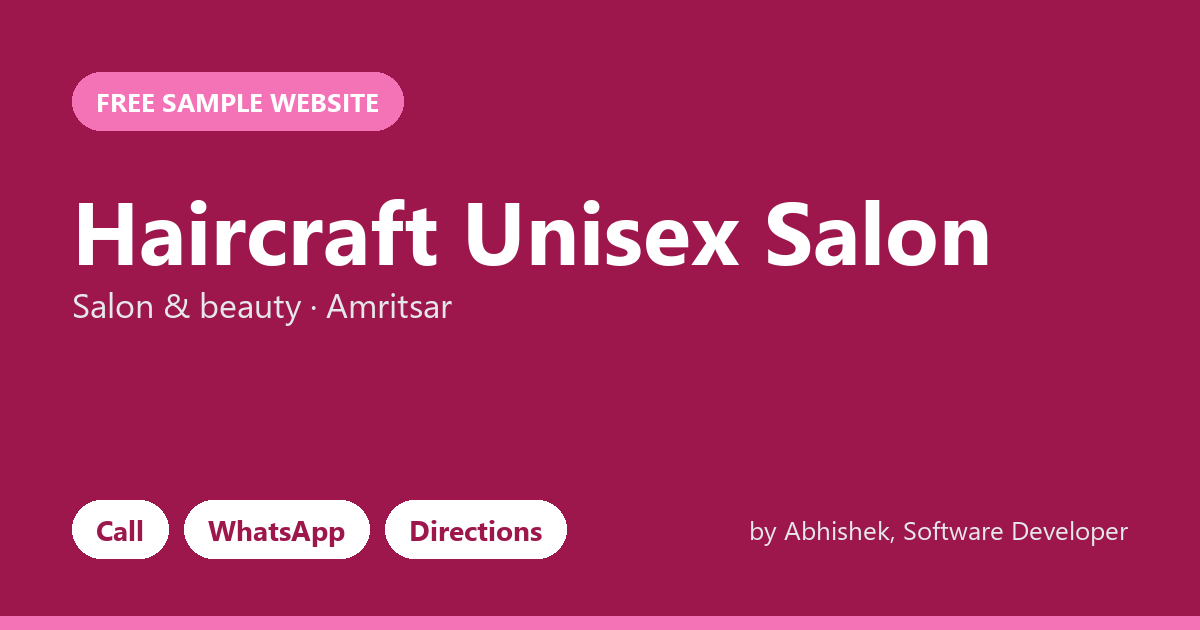
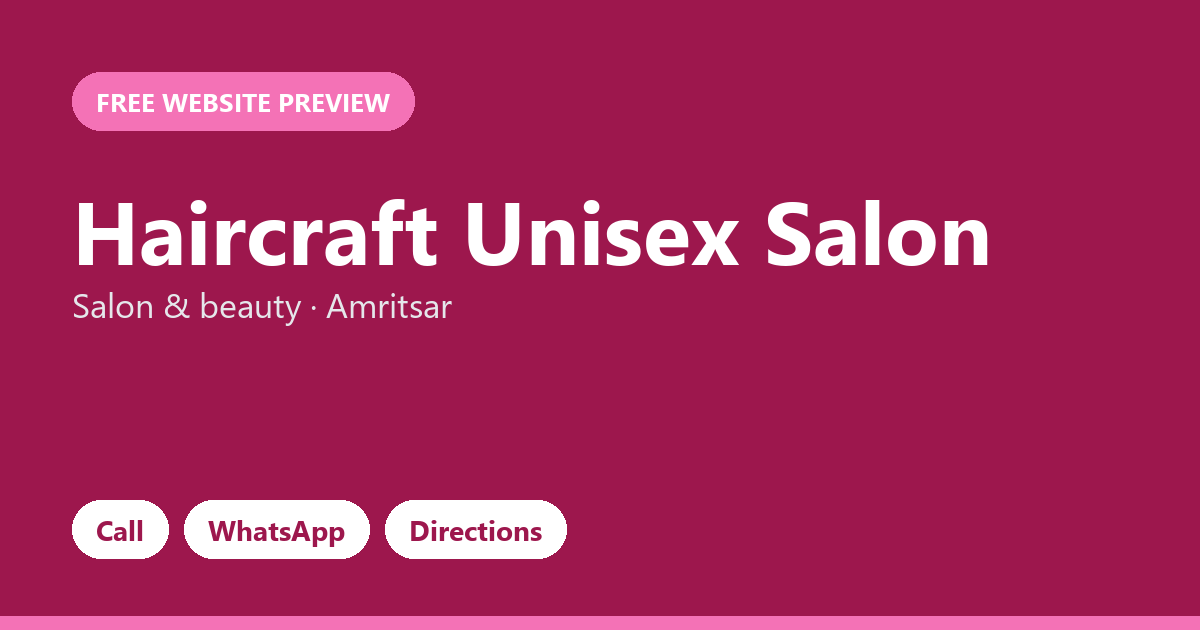
Previews: drop price and personal name (46-50 of 139)

Changed region(s): [[0.6167, 0.8143, 0.925, 0.8746], [0.1233, 0.1206, 0.37, 0.2111]]

diff --git a/p/high-definition-fitness-centre-chennai-5981/index.html b/p/high-definition-fitness-centre-chennai-5981/index.html
@@ -6,8 +6,8 @@
 <title>High Definition Fitness Centre | Gym &amp; fitness in Chennai</title>
 <meta name="description" content="Train harder, get stronger. Modern equipment, expert trainers and a motivating crowd.">
 <meta property="og:type" content="website">
-<meta property="og:title" content="High Definition Fitness Centre · Free sample website">
-<meta property="og:description" content="Made by Abhishek, Software Developer. Call, WhatsApp and directions in one tap.">
+<meta property="og:title" content="High Definition Fitness Centre · Free website preview">
+<meta property="og:description" content="Call, WhatsApp and directions in one tap.">
 <meta property="og:url" content="https://roguestar03.github.io/p/high-definition-fitness-centre-chennai-5981/">
 <meta property="og:image" content="https://roguestar03.github.io/p/high-definition-fitness-centre-chennai-5981/og.png">
 <meta property="og:image:width" content="1200">
@@ -167,7 +167,7 @@ footer{padding:40px 0 110px;border-top:1px solid var(--line);font-size:14px;colo
 </style>
 </head>
 <body>
-<div class="pv">Sample website made for <b>High Definition Fitness Centre</b> by <b>Abhishek</b>. Not the official website yet. <b>Like it?</b> Make it yours for ₹1,999. Contact: <a href="mailto:abhishekkayasth87@gmail.com">abhishekkayasth87@gmail.com</a> · <a href="https://www.linkedin.com/in/abhishek-kayasth-050250239/" target="_blank" rel="noopener">LinkedIn</a></div>
+<div class="pv">Free website preview for <b>High Definition Fitness Centre</b>. Not the official website yet. <b>Like it?</b> Just reply to our message. Contact: <a href="mailto:abhishekkayasth87@gmail.com">abhishekkayasth87@gmail.com</a> · <a href="https://www.linkedin.com/in/abhishek-kayasth-050250239/" target="_blank" rel="noopener">LinkedIn</a></div>
 <header>
   <div class="wrap nav">
     <a href="#top" class="logo"><span class="mark">HD</span><span class="t">High Definition Fitness Centre</span></a>
@@ -259,7 +259,7 @@ footer{padding:40px 0 110px;border-top:1px solid var(--line);font-size:14px;colo
       <div><b style="color:var(--ink)">High Definition Fitness Centre</b><br>Plot No 70, Madambakkam Main Rd, Chennai<p class="soc"><a href="https://www.facebook.com/118867384870490" target="_blank" rel="noopener">Facebook</a></p></div>
       <div>+91 90425 25981<br>&copy; 2026 High Definition Fitness Centre</div>
     </div>
-    <p class="credit">Sample website by Abhishek, Software Developer · <a href="mailto:abhishekkayasth87@gmail.com">abhishekkayasth87@gmail.com</a> · <a href="https://www.linkedin.com/in/abhishek-kayasth-050250239/" target="_blank" rel="noopener">LinkedIn</a></p>
+    <p class="credit">Website preview · <a href="mailto:abhishekkayasth87@gmail.com">abhishekkayasth87@gmail.com</a> · <a href="https://www.linkedin.com/in/abhishek-kayasth-050250239/" target="_blank" rel="noopener">LinkedIn</a></p>
   </div>
 </footer>
 

diff --git a/p/gulati-bakers-and-grocery-store-mohali-5626/index.html b/p/gulati-bakers-and-grocery-store-mohali-5626/index.html
@@ -6,8 +6,8 @@
 <title>Gulati Bakers and Grocery Store | Bakery &amp; sweets in Mohali</title>
 <meta name="description" content="Freshly baked every day. Cakes, pastries and treats for every celebration.">
 <meta property="og:type" content="website">
-<meta property="og:title" content="Gulati Bakers and Grocery Store · Free sample website">
-<meta property="og:description" content="Made by Abhishek, Software Developer. Call, WhatsApp and directions in one tap.">
+<meta property="og:title" content="Gulati Bakers and Grocery Store · Free website preview">
+<meta property="og:description" content="Call, WhatsApp and directions in one tap.">
 <meta property="og:url" content="https://roguestar03.github.io/p/gulati-bakers-and-grocery-store-mohali-5626/">
 <meta property="og:image" content="https://roguestar03.github.io/p/gulati-bakers-and-grocery-store-mohali-5626/og.png">
 <meta property="og:image:width" content="1200">
@@ -167,7 +167,7 @@ footer{padding:40px 0 110px;border-top:1px solid var(--line);font-size:14px;colo
 </style>
 </head>
 <body>
-<div class="pv">Sample website made for <b>Gulati Bakers and Grocery Store</b> by <b>Abhishek</b>. Not the official website yet. <b>Like it?</b> Make it yours for ₹1,999. Contact: <a href="mailto:abhishekkayasth87@gmail.com">abhishekkayasth87@gmail.com</a> · <a href="https://www.linkedin.com/in/abhishek-kayasth-050250239/" target="_blank" rel="noopener">LinkedIn</a></div>
+<div class="pv">Free website preview for <b>Gulati Bakers and Grocery Store</b>. Not the official website yet. <b>Like it?</b> Just reply to our message. Contact: <a href="mailto:abhishekkayasth87@gmail.com">abhishekkayasth87@gmail.com</a> · <a href="https://www.linkedin.com/in/abhishek-kayasth-050250239/" target="_blank" rel="noopener">LinkedIn</a></div>
 <header>
   <div class="wrap nav">
     <a href="#top" class="logo"><span class="mark">GB</span><span class="t">Gulati Bakers and Grocery Store</span></a>
@@ -259,7 +259,7 @@ footer{padding:40px 0 110px;border-top:1px solid var(--line);font-size:14px;colo
       <div><b style="color:var(--ink)">Gulati Bakers and Grocery Store</b><br>1303, 3, Mohali<p class="soc"><a href="https://www.facebook.com/629646377171123" target="_blank" rel="noopener">Facebook</a></p></div>
       <div>+91 78378 65626<br>&copy; 2026 Gulati Bakers and Grocery Store</div>
     </div>
-    <p class="credit">Sample website by Abhishek, Software Developer · <a href="mailto:abhishekkayasth87@gmail.com">abhishekkayasth87@gmail.com</a> · <a href="https://www.linkedin.com/in/abhishek-kayasth-050250239/" target="_blank" rel="noopener">LinkedIn</a></p>
+    <p class="credit">Website preview · <a href="mailto:abhishekkayasth87@gmail.com">abhishekkayasth87@gmail.com</a> · <a href="https://www.linkedin.com/in/abhishek-kayasth-050250239/" target="_blank" rel="noopener">LinkedIn</a></p>
   </div>
 </footer>
 

diff --git a/p/haircraft-unisex-salon-amritsar-2299/index.html b/p/haircraft-unisex-salon-amritsar-2299/index.html
@@ -6,8 +6,8 @@
 <title>Haircraft Unisex Salon | Salon &amp; beauty in Amritsar</title>
 <meta name="description" content="Look good, feel great. Expert hair, skin and beauty services in a relaxing space.">
 <meta property="og:type" content="website">
-<meta property="og:title" content="Haircraft Unisex Salon · Free sample website">
-<meta property="og:description" content="Made by Abhishek, Software Developer. Call, WhatsApp and directions in one tap.">
+<meta property="og:title" content="Haircraft Unisex Salon · Free website preview">
+<meta property="og:description" content="Call, WhatsApp and directions in one tap.">
 <meta property="og:url" content="https://roguestar03.github.io/p/haircraft-unisex-salon-amritsar-2299/">
 <meta property="og:image" content="https://roguestar03.github.io/p/haircraft-unisex-salon-amritsar-2299/og.png">
 <meta property="og:image:width" content="1200">
@@ -167,7 +167,7 @@ footer{padding:40px 0 110px;border-top:1px solid var(--line);font-size:14px;colo
 </style>
 </head>
 <body>
-<div class="pv">Sample website made for <b>Haircraft Unisex Salon</b> by <b>Abhishek</b>. Not the official website yet. <b>Like it?</b> Make it yours for ₹1,999. Contact: <a href="mailto:abhishekkayasth87@gmail.com">abhishekkayasth87@gmail.com</a> · <a href="https://www.linkedin.com/in/abhishek-kayasth-050250239/" target="_blank" rel="noopener">LinkedIn</a></div>
+<div class="pv">Free website preview for <b>Haircraft Unisex Salon</b>. Not the official website yet. <b>Like it?</b> Just reply to our message. Contact: <a href="mailto:abhishekkayasth87@gmail.com">abhishekkayasth87@gmail.com</a> · <a href="https://www.linkedin.com/in/abhishek-kayasth-050250239/" target="_blank" rel="noopener">LinkedIn</a></div>
 <header>
   <div class="wrap nav">
     <a href="#top" class="logo"><span class="mark">HU</span><span class="t">Haircraft Unisex Salon</span></a>
@@ -259,7 +259,7 @@ footer{padding:40px 0 110px;border-top:1px solid var(--line);font-size:14px;colo
       <div><b style="color:var(--ink)">Haircraft Unisex Salon</b><br>15, Fatehgarh Churian Rd, near SBI Bank, Amritsar<p class="soc"><a href="https://www.facebook.com/212800782459103" target="_blank" rel="noopener">Facebook</a></p></div>
       <div>+91 99882 02299<br>&copy; 2026 Haircraft Unisex Salon</div>
     </div>
-    <p class="credit">Sample website by Abhishek, Software Developer · <a href="mailto:abhishekkayasth87@gmail.com">abhishekkayasth87@gmail.com</a> · <a href="https://www.linkedin.com/in/abhishek-kayasth-050250239/" target="_blank" rel="noopener">LinkedIn</a></p>
+    <p class="credit">Website preview · <a href="mailto:abhishekkayasth87@gmail.com">abhishekkayasth87@gmail.com</a> · <a href="https://www.linkedin.com/in/abhishek-kayasth-050250239/" target="_blank" rel="noopener">LinkedIn</a></p>
   </div>
 </footer>
 

diff --git a/p/happy-in-the-head-mumbai-2325/index.html b/p/happy-in-the-head-mumbai-2325/index.html
@@ -6,8 +6,8 @@
 <title>Happy in the Head | Salon &amp; beauty in Mumbai</title>
 <meta name="description" content="Look good, feel great. Expert hair, skin and beauty services in a relaxing space.">
 <meta property="og:type" content="website">
-<meta property="og:title" content="Happy in the Head · Free sample website">
-<meta property="og:description" content="Made by Abhishek, Software Developer. Call, WhatsApp and directions in one tap.">
+<meta property="og:title" content="Happy in the Head · Free website preview">
+<meta property="og:description" content="Call, WhatsApp and directions in one tap.">
 <meta property="og:url" content="https://roguestar03.github.io/p/happy-in-the-head-mumbai-2325/">
 <meta property="og:image" content="https://roguestar03.github.io/p/happy-in-the-head-mumbai-2325/og.png">
 <meta property="og:image:width" content="1200">
@@ -167,7 +167,7 @@ footer{padding:40px 0 110px;border-top:1px solid var(--line);font-size:14px;colo
 </style>
 </head>
 <body>
-<div class="pv">Sample website made for <b>Happy in the Head</b> by <b>Abhishek</b>. Not the official website yet. <b>Like it?</b> Make it yours for ₹1,999. Contact: <a href="mailto:abhishekkayasth87@gmail.com">abhishekkayasth87@gmail.com</a> · <a href="https://www.linkedin.com/in/abhishek-kayasth-050250239/" target="_blank" rel="noopener">LinkedIn</a></div>
+<div class="pv">Free website preview for <b>Happy in the Head</b>. Not the official website yet. <b>Like it?</b> Just reply to our message. Contact: <a href="mailto:abhishekkayasth87@gmail.com">abhishekkayasth87@gmail.com</a> · <a href="https://www.linkedin.com/in/abhishek-kayasth-050250239/" target="_blank" rel="noopener">LinkedIn</a></div>
 <header>
   <div class="wrap nav">
     <a href="#top" class="logo"><span class="mark">HI</span><span class="t">Happy in the Head</span></a>
@@ -259,7 +259,7 @@ footer{padding:40px 0 110px;border-top:1px solid var(--line);font-size:14px;colo
       <div><b style="color:var(--ink)">Happy in the Head</b><br>Shop No. 1 &amp;2, Mangal Kunj B Wing, National College Lane, Mumbai<p class="soc"><a href="https://www.facebook.com/539634542785045" target="_blank" rel="noopener">Facebook</a></p></div>
       <div>+91 98196 22325<br>&copy; 2026 Happy in the Head</div>
     </div>
-    <p class="credit">Sample website by Abhishek, Software Developer · <a href="mailto:abhishekkayasth87@gmail.com">abhishekkayasth87@gmail.com</a> · <a href="https://www.linkedin.com/in/abhishek-kayasth-050250239/" target="_blank" rel="noopener">LinkedIn</a></p>
+    <p class="credit">Website preview · <a href="mailto:abhishekkayasth87@gmail.com">abhishekkayasth87@gmail.com</a> · <a href="https://www.linkedin.com/in/abhishek-kayasth-050250239/" target="_blank" rel="noopener">LinkedIn</a></p>
   </div>
 </footer>
 

diff --git a/p/gym-it-chennai-5505/index.html b/p/gym-it-chennai-5505/index.html
@@ -6,8 +6,8 @@
 <title>Gym IT | Gym &amp; fitness in Chennai</title>
 <meta name="description" content="Train harder, get stronger. Modern equipment, expert trainers and a motivating crowd.">
 <meta property="og:type" content="website">
-<meta property="og:title" content="Gym IT · Free sample website">
-<meta property="og:description" content="Made by Abhishek, Software Developer. Call, WhatsApp and directions in one tap.">
+<meta property="og:title" content="Gym IT · Free website preview">
+<meta property="og:description" content="Call, WhatsApp and directions in one tap.">
 <meta property="og:url" content="https://roguestar03.github.io/p/gym-it-chennai-5505/">
 <meta property="og:image" content="https://roguestar03.github.io/p/gym-it-chennai-5505/og.png">
 <meta property="og:image:width" content="1200">
@@ -167,7 +167,7 @@ footer{padding:40px 0 110px;border-top:1px solid var(--line);font-size:14px;colo
 </style>
 </head>
 <body>
-<div class="pv">Sample website made for <b>Gym IT</b> by <b>Abhishek</b>. Not the official website yet. <b>Like it?</b> Make it yours for ₹1,999. Contact: <a href="mailto:abhishekkayasth87@gmail.com">abhishekkayasth87@gmail.com</a> · <a href="https://www.linkedin.com/in/abhishek-kayasth-050250239/" target="_blank" rel="noopener">LinkedIn</a></div>
+<div class="pv">Free website preview for <b>Gym IT</b>. Not the official website yet. <b>Like it?</b> Just reply to our message. Contact: <a href="mailto:abhishekkayasth87@gmail.com">abhishekkayasth87@gmail.com</a> · <a href="https://www.linkedin.com/in/abhishek-kayasth-050250239/" target="_blank" rel="noopener">LinkedIn</a></div>
 <header>
   <div class="wrap nav">
     <a href="#top" class="logo"><span class="mark">GI</span><span class="t">Gym IT</span></a>
@@ -259,7 +259,7 @@ footer{padding:40px 0 110px;border-top:1px solid var(--line);font-size:14px;colo
       <div><b style="color:var(--ink)">Gym IT</b><br>No.26 B, First Floor, E Jones Rd, Chennai<p class="soc"><a href="https://www.facebook.com/100851958430468" target="_blank" rel="noopener">Facebook</a></p></div>
       <div>+91 89393 05505<br>&copy; 2026 Gym IT</div>
     </div>
-    <p class="credit">Sample website by Abhishek, Software Developer · <a href="mailto:abhishekkayasth87@gmail.com">abhishekkayasth87@gmail.com</a> · <a href="https://www.linkedin.com/in/abhishek-kayasth-050250239/" target="_blank" rel="noopener">LinkedIn</a></p>
+    <p class="credit">Website preview · <a href="mailto:abhishekkayasth87@gmail.com">abhishekkayasth87@gmail.com</a> · <a href="https://www.linkedin.com/in/abhishek-kayasth-050250239/" target="_blank" rel="noopener">LinkedIn</a></p>
   </div>
 </footer>
 
